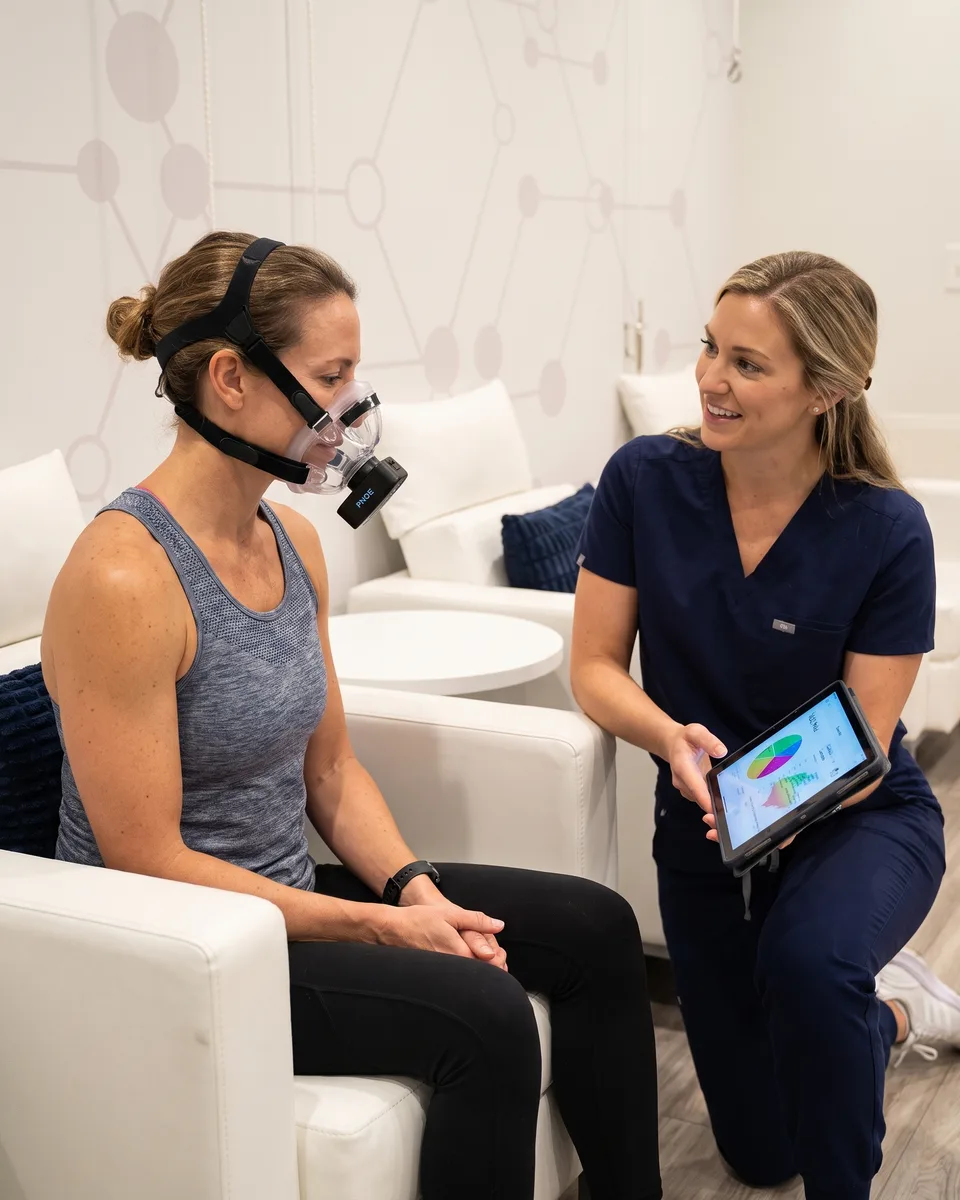
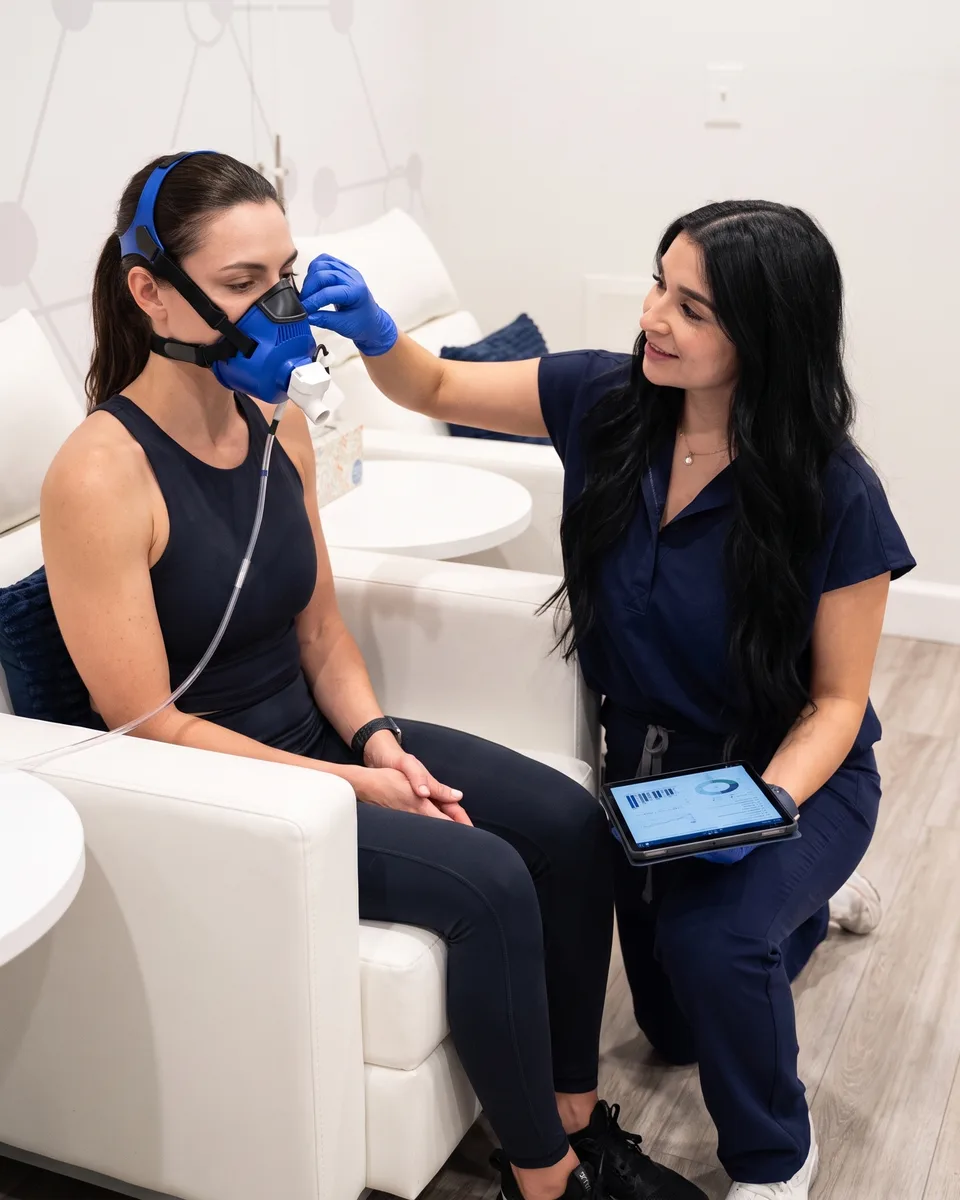
Airrosti FC: blue PNOE mask VO2 images, RMR consult image

diff --git a/fossil-creek/airrosti/index.html b/fossil-creek/airrosti/index.html
@@ -312,7 +312,7 @@ table.cmp{min-width:900px}
 
 <section class="panel dark pad">
   <div class="shell grid">
-    <div class="ph"><img src="https://betterbranding.github.io/dripbar-pages/fossil-creek/airrosti/assets/panel-rmr.webp" alt="Private treatment room at The DRIPBaR Fossil Creek" loading="lazy" width="960" height="1200"></div>
+    <div class="ph"><img src="https://betterbranding.github.io/dripbar-pages/fossil-creek/airrosti/assets/panel-rmr.webp" alt="Nurse reviewing resting metabolic rate results with a client at The DRIPBaR Fossil Creek" loading="lazy" width="960" height="1200"></div>
     <div>
       <div class="eyebrow on-dark" data-i18n="k46">Measure | RMR Testing</div>
       <h2 data-i18n="k47">Resting Metabolic Rate</h2>
